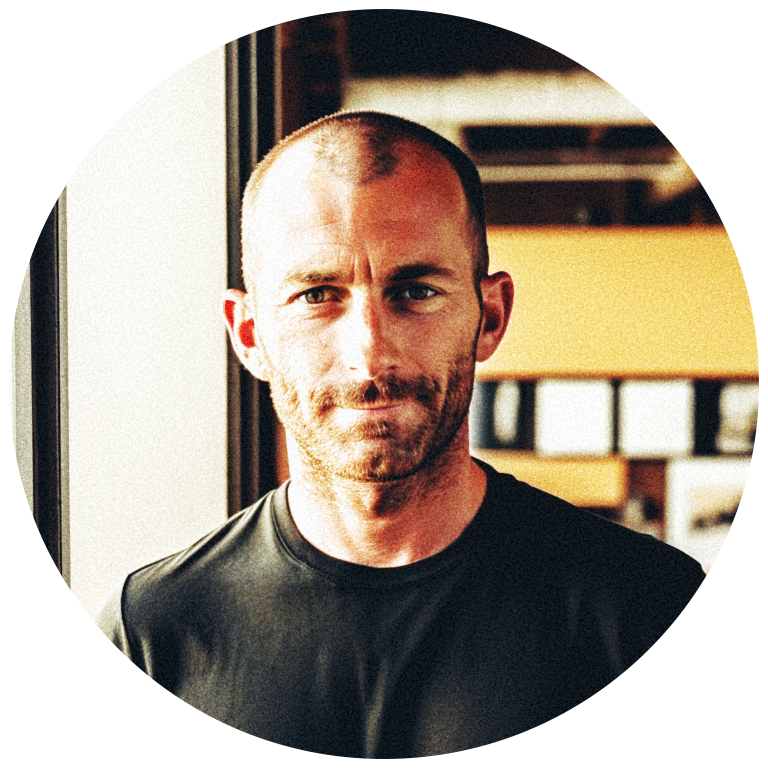
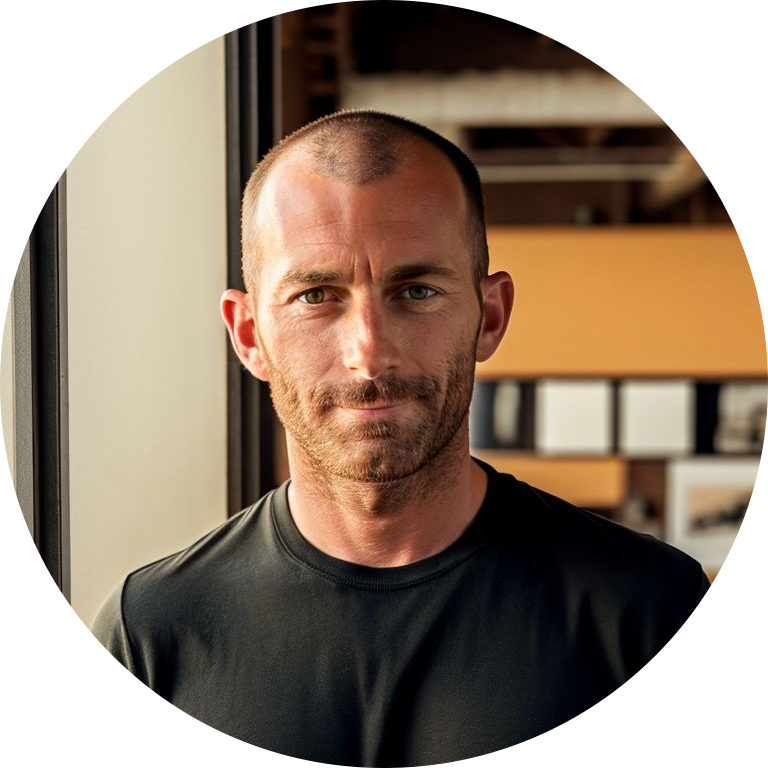
update PFP

diff --git a/index.html b/index.html
@@ -132,7 +132,9 @@
                     <div class="home__data">
                         <h1 class="home__title">Charles Vanchieri</h1>
                         <h3 class="home__subtitle"></h3>
-                        <p class="home__description">Known for building and leading successful teams, managing complex projects, developing strategic customer relationships, and creating a work environment that focuses of collaboration and ownership.</p>
+                        <p class="home__description">
+                            Known for building and leading successful teams, managing complex projects, developing strategic customer relationships, 
+                            and creating a work environment that focuses on collaboration, ownership, and support.</p>
                         <a href="#contact" class="button button--flex">
                             Contact Me <i class="uil uil-message button__icon"></i>
                         </a>
@@ -162,7 +164,8 @@
                         Culture-driven Manager with over 10 years of experience leading cross-functional teams, managing in-depth project life cycles, 
                         developing productive client relationships, and delivering complex products across diverse industries.  Known for strong leadership, 
                         meticulous organization, fostering collaboration, and promoting an engaging positive work environment. Experienced in leading remote 
-                        and in-person teams throughout multiple time zones, leveraging Agile methodologies to deliver quality projects on time and within budget.
+                        and in-person teams throughout multiple time zones, leveraging Agile methodologies to deliver quality projects on time and within budget.  
+                        Recently moved to Sydney Australia.
                     </p>
 
                     <div class="about__info">
